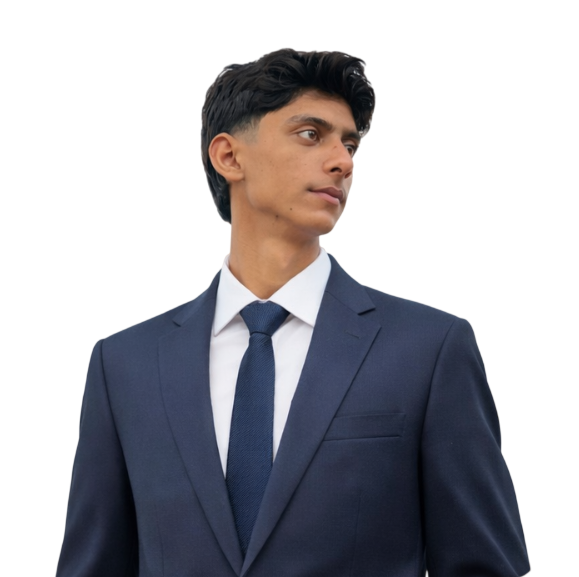
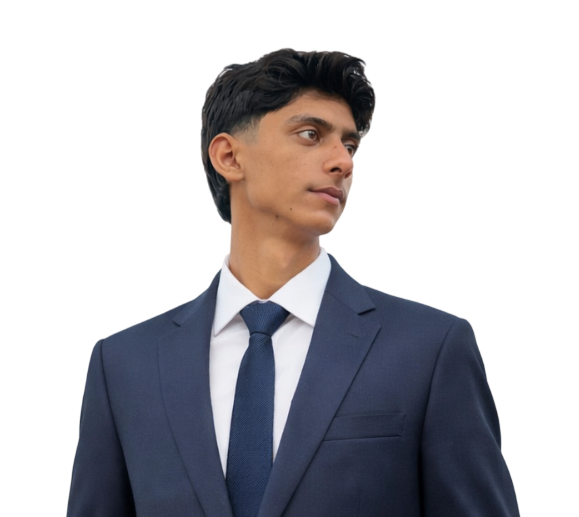
Added Owner in member section

diff --git a/app/about/page.tsx b/app/about/page.tsx
@@ -12,6 +12,13 @@ export const metadata: Metadata = {
 export default function AboutPage() {
   const teamMembers = [
     {
+      name: 'Alex Johnson',
+      role: 'Owner',
+      image: '/team/alex.png',
+      expertise: 'Investment, Financial Oversight, Long-term Vision',
+      description: 'As the principal investor behind our agency, Alex provides the financial foundation and long-term vision that fuels our growth. His commitment ensures the team has the resources and stability to innovate and deliver exceptional digital services.',
+    },
+    {
       name: 'Frasat Ahmad',
       role: 'CEO',
       image: '/team/frasat.png',
@@ -26,7 +33,7 @@ export default function AboutPage() {
       description: 'Muawaz is a versatile full-stack developer who bridges the gap between frontend design and backend functionality, he delivers scalable and efficient solutions.',
     },
     {
-      name: 'Irbaz Hassan',
+      name: 'Irbaz Hasan',
       role: 'Creative Director',
       image: '/team/irbaz.png',
       expertise: 'Creative Strategy, Brand Development, Design Leadership',
@@ -63,7 +70,7 @@ export default function AboutPage() {
       </section>
 
       {/* Our Story Section */}
-      <OurStory/> 
+      <OurStory />
 
       {/* What Makes Us Different */}
       <section className="py-20 px-4 sm:px-6 lg:px-8 bg-gray-50">
@@ -135,15 +142,15 @@ export default function AboutPage() {
                 {/* Image */}
                 <div className={`flex justify-center bg-gradient-to-r from-gray-700 to-gray-300 items-center h-96 rounded-2xl overflow-hidden shadow-2xl ${index % 2 === 1 ? 'lg:col-start-2' : ''
                   }`}>
-                    <div className='h-72 w-72 relative bg-[#F7F7F7] rounded-2xl'>
-                  <Image
-                    src={member.image}
-                    alt={member.name}
-                    fill
-                    className="object-cover rounded-2xl"
-                    loading='eager'
-                  />
-                    </div>
+                  <div className='h-72 w-72 relative bg-[#F7F7F7] rounded-2xl'>
+                    <Image
+                      src={member.image}
+                      alt={member.name}
+                      fill
+                      className="object-cover rounded-2xl"
+                      loading='eager'
+                    />
+                  </div>
                 </div>
 
                 {/* Content */}

diff --git a/components/TeamPreview.tsx b/components/TeamPreview.tsx
@@ -1,7 +1,6 @@
 // Team Preview Component - Brief Team Member Showcase
 
 
-import Image from 'next/image';
 import Link from 'next/link';
 
 export default function TeamPreview() {
@@ -17,7 +16,7 @@ const teamMembers = [
     description: 'Muawaz bridges frontend design and backend functionality, delivering scalable and efficient solutions.',
   },
   {
-    name: 'Irbaz Hassan',
+    name: 'Irbaz Hasan',
     role: 'Creative Director',
     description: 'Irbaz brings creative vision to life, guiding our design team to create stunning visual identities.',
   },
